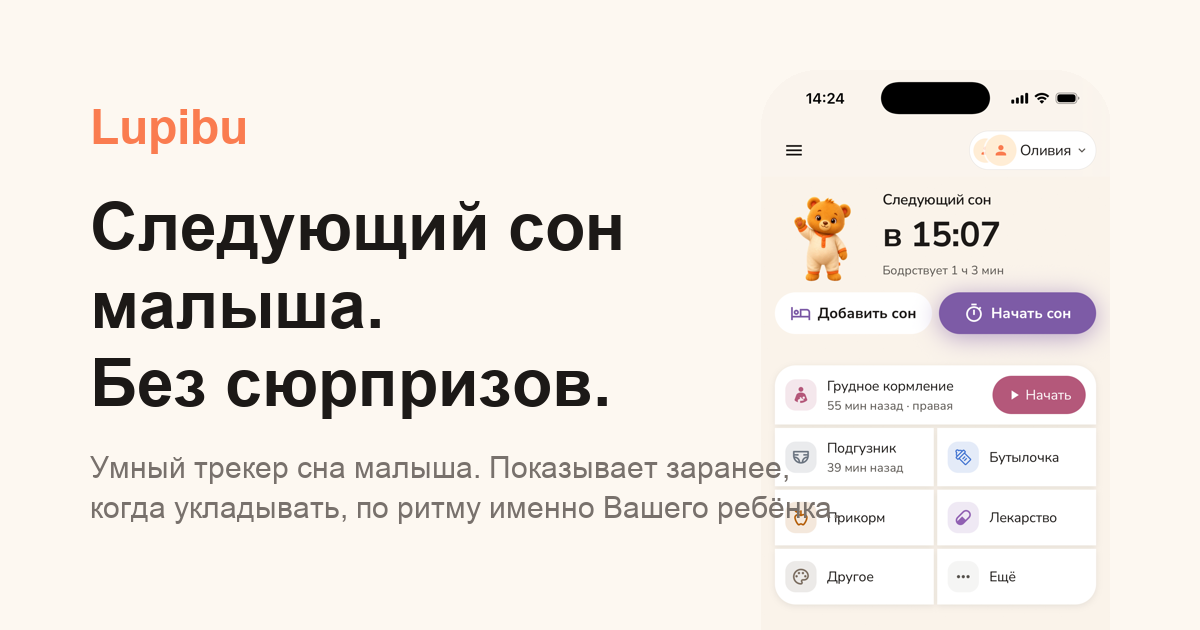
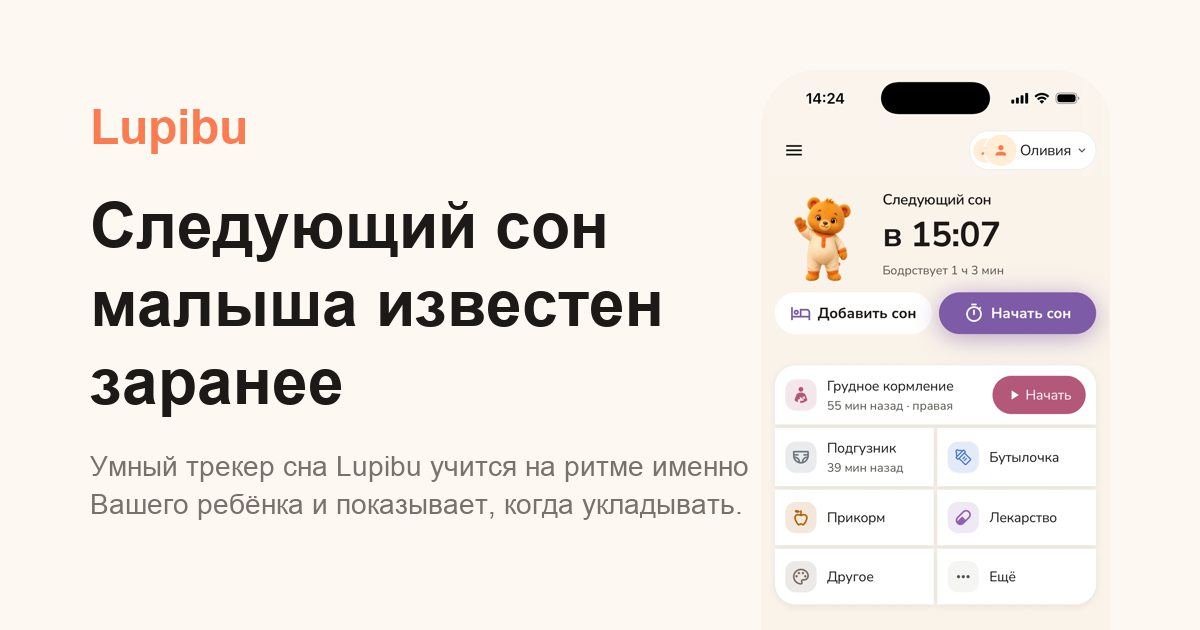
Hero: one sentence in the title, one in the subtitle

diff --git a/kk/index.html b/kk/index.html
@@ -12,18 +12,18 @@
     <meta name="theme-color" content="#FA7C50">
     <meta name="robots" content="index,follow,max-image-preview:large">
     <meta name="googlebot" content="index,follow,max-image-preview:large">
-    <meta property="og:title" content="Сәбидің келесі ұйқысы. Тосынсыз.">
-    <meta property="og:description" content="Сәби ұйқысының ақылды трекері. Ұйықтату уақытын дәл Сіздің сәбиіңіздің ырғағы бойынша алдын ала көрсетеді.">
+    <meta property="og:title" content="Сәбидің келесі ұйқысы алдын ала белгілі">
+    <meta property="og:description" content="Lupibu ақылды ұйқы трекері дәл Сіздің сәбиіңіздің ырғағын үйреніп, қашан ұйықтату керегін көрсетеді.">
     <meta property="og:type" content="website">
     <meta property="og:url" content="https://lupibu.com/kk/">
     <meta property="og:site_name" content="Lupibu">
     <meta property="og:image" content="https://lupibu.com/assets/og-card.png">
     <meta property="og:image:width" content="1200">
     <meta property="og:image:height" content="630">
-    <meta property="og:image:alt" content="Lupibu: следующий сон малыша без сюрпризов">
+    <meta property="og:image:alt" content="Lupibu: следующий сон малыша известен заранее">
     <meta name="twitter:card" content="summary_large_image">
-    <meta name="twitter:title" content="Сәбидің келесі ұйқысы. Тосынсыз.">
-    <meta name="twitter:description" content="Сәби ұйқысының ақылды трекері. Ұйықтату уақытын дәл Сіздің сәбиіңіздің ырғағы бойынша алдын ала көрсетеді.">
+    <meta name="twitter:title" content="Сәбидің келесі ұйқысы алдын ала белгілі">
+    <meta name="twitter:description" content="Lupibu ақылды ұйқы трекері дәл Сіздің сәбиіңіздің ырғағын үйреніп, қашан ұйықтату керегін көрсетеді.">
     <meta name="twitter:image" content="https://lupibu.com/assets/og-card.png">
 
     <link rel="canonical" href="https://lupibu.com/kk/">
@@ -156,8 +156,8 @@
             <div class="hero-glow-2"></div>
             <div class="container hero-container">
                 <div class="hero-content">
-                    <h1 class="hero-title" id="hero-title" data-i18n="hero.title">Сәбидің келесі ұйқысы. Тосынсыз.</h1>
-                    <p class="hero-subtitle" data-i18n="hero.subtitle">Сәби ұйқысының ақылды трекері. Ұйықтату уақытын дәл Сіздің сәбиіңіздің ырғағы бойынша алдын ала көрсетеді.</p>
+                    <h1 class="hero-title" id="hero-title" data-i18n="hero.title">Сәбидің келесі ұйқысы алдын ала белгілі</h1>
+                    <p class="hero-subtitle" data-i18n="hero.subtitle">Lupibu ақылды ұйқы трекері дәл Сіздің сәбиіңіздің ырғағын үйреніп, қашан ұйықтату керегін көрсетеді.</p>
                     <div class="hero-cta" id="heroCta">
                         <a href="https://apps.apple.com/app/id6758586869" class="appstore-badge"
                             aria-label="Загрузить в App Store" target="_blank" rel="noopener">

diff --git a/index.html b/index.html
@@ -12,18 +12,18 @@
     <meta name="theme-color" content="#FA7C50">
     <meta name="robots" content="index,follow,max-image-preview:large">
     <meta name="googlebot" content="index,follow,max-image-preview:large">
-    <meta property="og:title" content="Следующий сон малыша. Без сюрпризов.">
-    <meta property="og:description" content="Умный трекер сна малыша. Показывает заранее, когда укладывать, по ритму именно Вашего ребёнка. 7 дней бесплатно.">
+    <meta property="og:title" content="Следующий сон малыша известен заранее">
+    <meta property="og:description" content="Умный трекер сна Lupibu учится на ритме именно Вашего ребёнка и показывает, когда укладывать. 7 дней бесплатно.">
     <meta property="og:type" content="website">
     <meta property="og:url" content="https://lupibu.com/">
     <meta property="og:site_name" content="Lupibu">
     <meta property="og:image" content="https://lupibu.com/assets/og-card.png">
     <meta property="og:image:width" content="1200">
     <meta property="og:image:height" content="630">
-    <meta property="og:image:alt" content="Lupibu: следующий сон малыша без сюрпризов">
+    <meta property="og:image:alt" content="Lupibu: следующий сон малыша известен заранее">
     <meta name="twitter:card" content="summary_large_image">
-    <meta name="twitter:title" content="Следующий сон малыша. Без сюрпризов.">
-    <meta name="twitter:description" content="Умный трекер сна малыша. Показывает заранее, когда укладывать, по ритму именно Вашего ребёнка.">
+    <meta name="twitter:title" content="Следующий сон малыша известен заранее">
+    <meta name="twitter:description" content="Умный трекер сна Lupibu учится на ритме именно Вашего ребёнка и показывает, когда укладывать.">
     <meta name="twitter:image" content="https://lupibu.com/assets/og-card.png">
 
     <link rel="canonical" href="https://lupibu.com/">
@@ -156,9 +156,9 @@
             <div class="hero-glow-2"></div>
             <div class="container hero-container">
                 <div class="hero-content">
-                    <h1 class="hero-title" id="hero-title" data-i18n="hero.title">Следующий сон малыша. Без сюрпризов.</h1>
+                    <h1 class="hero-title" id="hero-title" data-i18n="hero.title">Следующий сон малыша известен заранее</h1>
                     <p class="hero-subtitle" data-i18n="hero.subtitle">
-                        Умный трекер сна малыша. Показывает заранее, когда укладывать, по ритму именно Вашего ребёнка.
+                        Умный трекер сна Lupibu учится на ритме именно Вашего ребёнка и показывает, когда укладывать.
                     </p>
                     <div class="hero-cta" id="heroCta">
                         <a href="https://apps.apple.com/app/id6758586869" class="appstore-badge"

diff --git a/en/index.html b/en/index.html
@@ -12,18 +12,18 @@
     <meta name="theme-color" content="#FA7C50">
     <meta name="robots" content="index,follow,max-image-preview:large">
     <meta name="googlebot" content="index,follow,max-image-preview:large">
-    <meta property="og:title" content="Your baby's next nap isn't a surprise.">
-    <meta property="og:description" content="A smart baby sleep tracker: it shows the next nap ahead of time, from your baby's own rhythm.">
+    <meta property="og:title" content="Your baby's next nap is never a surprise.">
+    <meta property="og:description" content="Lupibu is a smart baby sleep tracker that learns your baby's own rhythm and shows you when to put them down.">
     <meta property="og:type" content="website">
     <meta property="og:url" content="https://lupibu.com/en/">
     <meta property="og:site_name" content="Lupibu">
     <meta property="og:image" content="https://lupibu.com/assets/og-card.png">
     <meta property="og:image:width" content="1200">
     <meta property="og:image:height" content="630">
-    <meta property="og:image:alt" content="Lupibu: следующий сон малыша без сюрпризов">
+    <meta property="og:image:alt" content="Lupibu: следующий сон малыша известен заранее">
     <meta name="twitter:card" content="summary_large_image">
-    <meta name="twitter:title" content="Your baby's next nap isn't a surprise.">
-    <meta name="twitter:description" content="A smart baby sleep tracker: it shows the next nap ahead of time, from your baby's own rhythm.">
+    <meta name="twitter:title" content="Your baby's next nap is never a surprise.">
+    <meta name="twitter:description" content="Lupibu is a smart baby sleep tracker that learns your baby's own rhythm and shows you when to put them down.">
     <meta name="twitter:image" content="https://lupibu.com/assets/og-card.png">
 
     <link rel="canonical" href="https://lupibu.com/en/">
@@ -156,8 +156,8 @@
             <div class="hero-glow-2"></div>
             <div class="container hero-container">
                 <div class="hero-content">
-                    <h1 class="hero-title" id="hero-title" data-i18n="hero.title">Your baby's next nap isn't a surprise.</h1>
-                    <p class="hero-subtitle" data-i18n="hero.subtitle">A smart baby sleep tracker: it shows the next nap ahead of time, from your baby's own rhythm.</p>
+                    <h1 class="hero-title" id="hero-title" data-i18n="hero.title">Your baby's next nap is never a surprise.</h1>
+                    <p class="hero-subtitle" data-i18n="hero.subtitle">Lupibu is a smart baby sleep tracker that learns your baby's own rhythm and shows you when to put them down.</p>
                     <div class="hero-cta" id="heroCta">
                         <a href="https://apps.apple.com/app/id6758586869" class="appstore-badge"
                             aria-label="Загрузить в App Store" target="_blank" rel="noopener">

diff --git a/i18n.js b/i18n.js
@@ -10,8 +10,8 @@ const translations = {
 
         // Hero — funnel 2026-09: soft promise, mechanism in the subline
         'hero.eyebrow': 'Baby sleep & routine tracker for iPhone',
-        'hero.title': "Your baby's next nap isn't a surprise.",
-        'hero.subtitle': "A smart baby sleep tracker: it shows the next nap ahead of time, from your baby's own rhythm.",
+        'hero.title': "Your baby's next nap is never a surprise.",
+        'hero.subtitle': "Lupibu is a smart baby sleep tracker that learns your baby's own rhythm and shows you when to put them down.",
         'hero.proof': 'Free for 7 days',
         'hero.micro': 'Free for 7 days, then a subscription. Cancel anytime in the App Store.',
 
@@ -177,8 +177,8 @@ const translations = {
     ru: {
         'a11y.skipLink': 'К содержимому',
         'hero.eyebrow': 'Трекер сна и режима малыша для iPhone',
-        'hero.title': 'Следующий сон малыша. Без сюрпризов.',
-        'hero.subtitle': 'Умный трекер сна малыша. Показывает заранее, когда укладывать, по ритму именно Вашего ребёнка.',
+        'hero.title': 'Следующий сон малыша известен заранее',
+        'hero.subtitle': 'Умный трекер сна Lupibu учится на ритме именно Вашего ребёнка и показывает, когда укладывать.',
         'hero.proof': '7 дней бесплатно',
         'hero.micro': '7 дней бесплатно, дальше — по подписке. Отмена в App Store в любой момент.',
 
@@ -330,8 +330,8 @@ const translations = {
     kk: {
         'a11y.skipLink': 'Мазмұнға өту',
         'hero.eyebrow': 'iPhone-ға арналған сәби ұйқысы мен режим трекері',
-        'hero.title': 'Сәбидің келесі ұйқысы. Тосынсыз.',
-        'hero.subtitle': 'Сәби ұйқысының ақылды трекері. Ұйықтату уақытын дәл Сіздің сәбиіңіздің ырғағы бойынша алдын ала көрсетеді.',
+        'hero.title': 'Сәбидің келесі ұйқысы алдын ала белгілі',
+        'hero.subtitle': 'Lupibu ақылды ұйқы трекері дәл Сіздің сәбиіңіздің ырғағын үйреніп, қашан ұйықтату керегін көрсетеді.',
         'hero.proof': '7 күн тегін',
         'hero.micro': '7 күн тегін, кейін — жазылым. App Store-да кез келген сәтте бас тартуға болады.',
 
